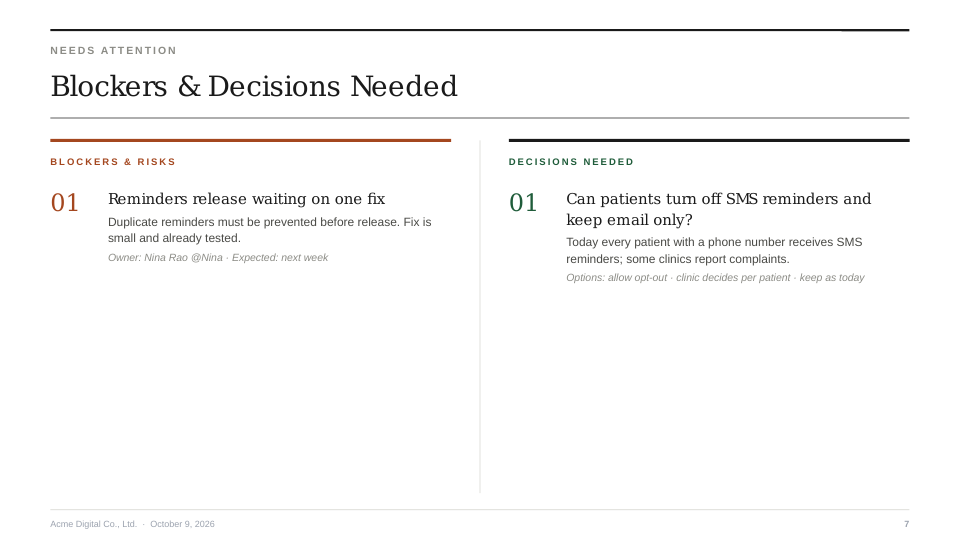
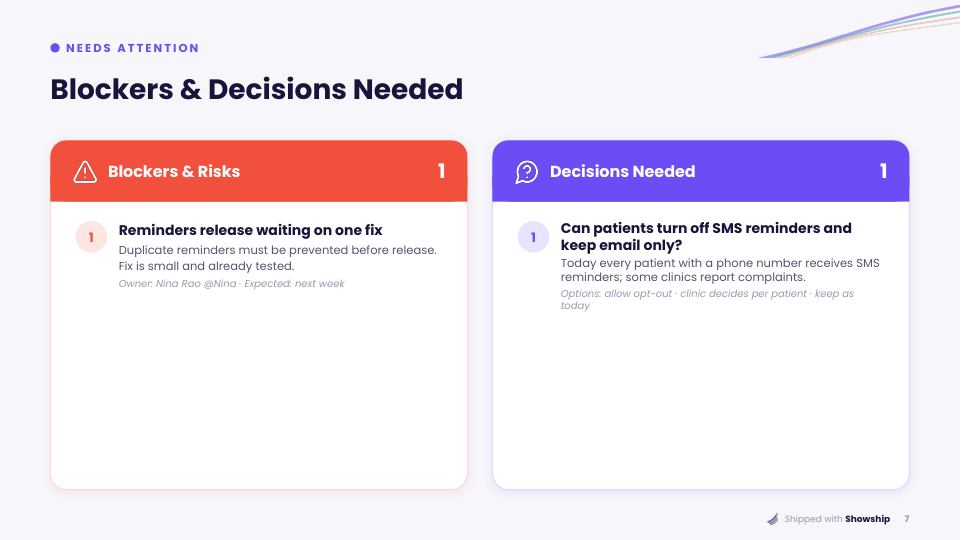
README: Showship slide template previews

diff --git a/README.md b/README.md
@@ -30,7 +30,7 @@ npx showship
 
 ![Example deck](https://raw.githubusercontent.com/Soe-Moe/showship/master/docs/preview-grid.png)
 
-<sub>All names and data above are fictional. Download the [example deck](https://github.com/Soe-Moe/showship/raw/master/docs/example-deck.pptx).</sub>
+<sub>Shown in the Showship signature style. All names and data are fictional. Download the example deck: [Showship](https://github.com/Soe-Moe/showship/raw/master/docs/example-deck-showship.pptx) · [Classic](https://github.com/Soe-Moe/showship/raw/master/docs/example-deck.pptx).</sub>
 
 ---
 
@@ -423,7 +423,7 @@ Set it once in `config.json` (`"style": "vivid"`), in the installer (`--style vi
 
 ## Slide templates
 
-<sub>Shown in the Classic style.</sub>
+<sub>Shown in the Showship style.</sub>
 
 | Template          | Use it for                                               |                                                                                               |
 | ----------------- | -------------------------------------------------------- | --------------------------------------------------------------------------------------------- |
